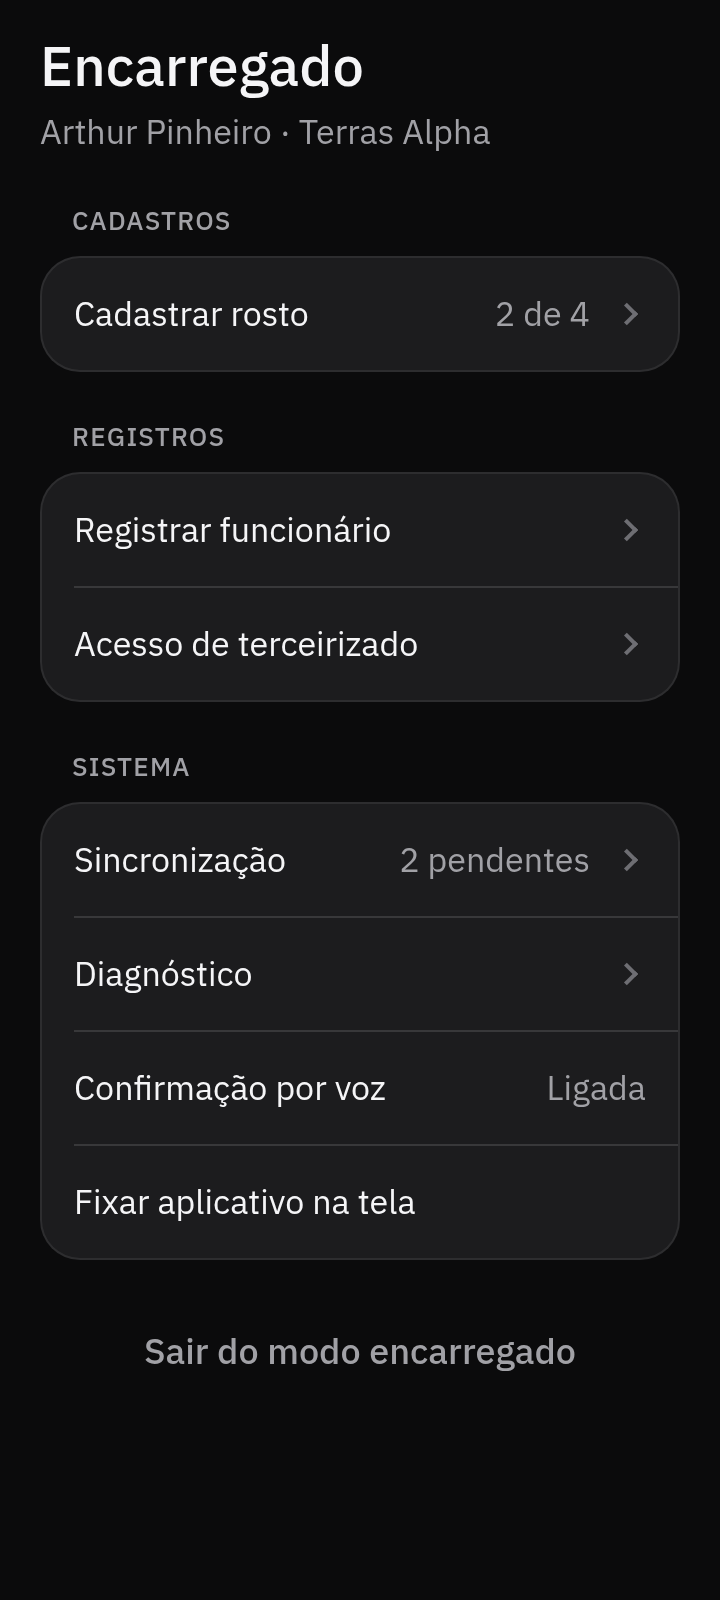
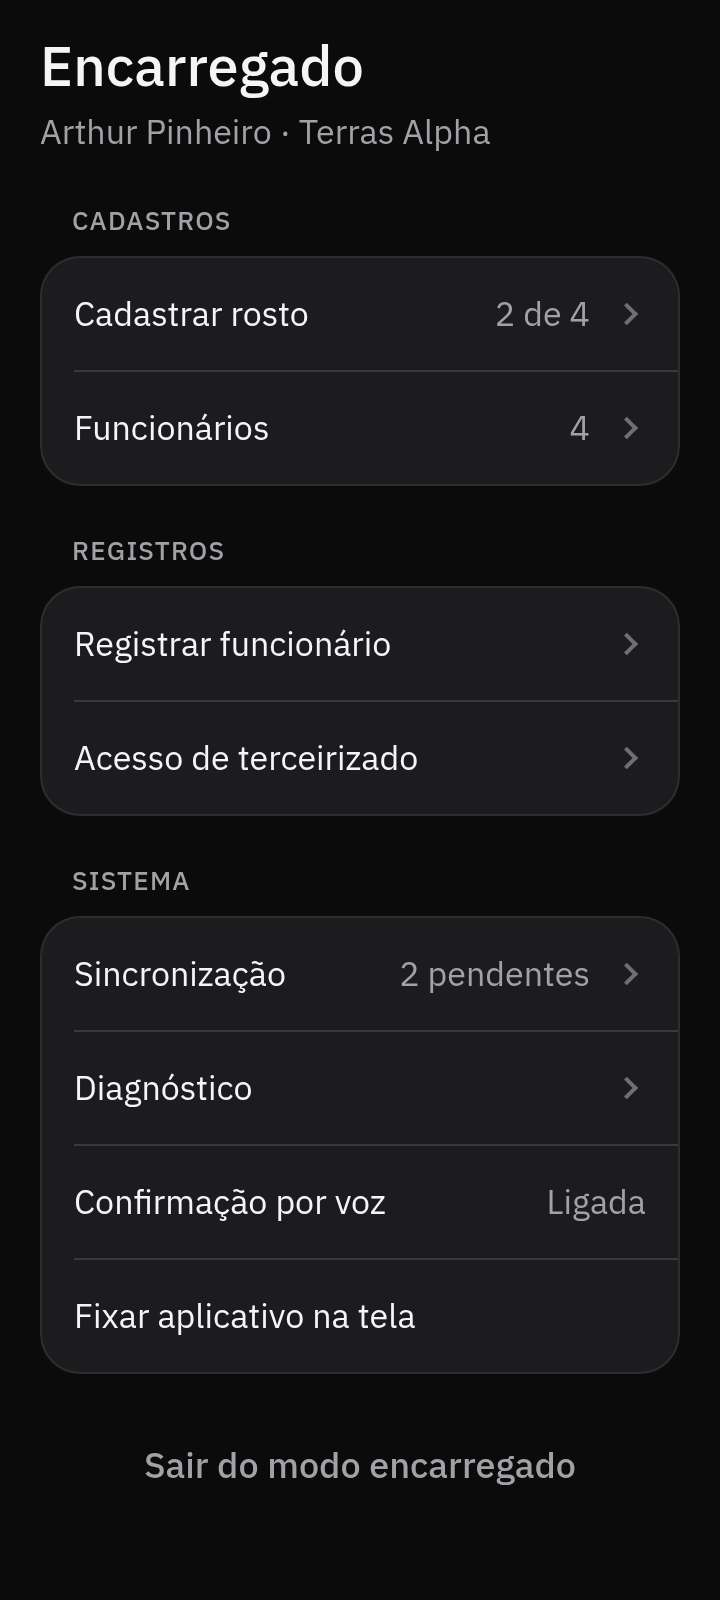
Ponto de Obra: revisão Impeccable da rodada 3 e telas atualizadas (30 cenas × 3 tamanhos)
Claude-Session: https://claude.ai/code/session_01TnKya7g1xESWgXpViWeEWq

diff --git a/apps/ponto-obra/IMPECCABLE-REVIEW.md b/apps/ponto-obra/IMPECCABLE-REVIEW.md
@@ -9,6 +9,67 @@
   fora do sistema); detector automatizado; e revisão visual de 29 estados em 3
   tamanhos de tela.
 
+## Rodada 3 - evolução profissional (04/10/2026)
+
+<!-- impeccable-resumo
+p0: 0
+p1: 0
+p1_justificados: 0
+-->
+
+- Base: `f3b4555` (main, com o funcionário global). Escopo: tela do
+  trabalhador, Encarregado, Funcionários, Diagnóstico e cópia das mensagens.
+- Verificação: detector (`design-system.test.js`) sem exceção nova; testes de
+  comportamento (`apresentacao.test.js`, `diagnostico-calibracao.test.js`);
+  revisão visual de **30 cenas × 3 tamanhos** (360×800, 412×915, tablet
+  800×1280) no harness `react-native-web`, com medição automática de estouro
+  horizontal, rolagem lateral e alvo < 44: **0 ocorrências**. As telas estão
+  em `docs/ui/`. **Não houve validação em aparelho físico** (sem aparelho no
+  ambiente): por isso o scorecard mantém o teto 9,0 de UI.
+
+### Antes × Depois (10 heurísticas)
+
+"Antes" é a main `f3b4555` com a auditoria do usuário (UI trabalhador 6,4;
+encarregado 6,2), que apontou a cópia "nesta obra" errada para funcionário
+global, a falta da lista de Funcionários e o Diagnóstico sem seções de
+suporte.
+
+| # | Heurística | Antes (estimado) | Depois | O que mudou |
+| --- | --- | --- | --- | --- |
+| 1 | Visibility of System Status | 3 | **4** | Comprovante offline diz "Salvo no aparelho · Será enviado automaticamente"; Diagnóstico em seções (Aplicativo, Aparelho, Sincronização, REP-P, Hora, Modelos, Desempenho) com "Alerta da hora" em texto + ícone. |
+| 2 | Match System / Real World | 2 | **4** | "Rosto não cadastrado nesta obra" virou "ainda não cadastrado" (o rosto vale em toda a empresa); hora no fuso do estabelecimento, não do aparelho; status do NTP traduzido ("medida contra o NTP.br, dentro da meta"). |
+| 3 | User Control and Freedom | 3 | **3** | Sem mudança. Continua faltando cancelar o reconhecimento em andamento (P3). |
+| 4 | Consistency and Standards | 4 | **4** | Funcionários e Diagnóstico usam o mesmo padrão de linhas agrupadas e "‹ Voltar". |
+| 5 | Error Prevention | 3 | **3** | Sem mudança de fluxo. |
+| 6 | Recognition Rather Than Recall | 3 | **4** | Lista de Funcionários com "Rosto cadastrado / Sem rosto" e o atalho "Cadastrar rosto"; menu mostra "2 de 4" e a contagem. |
+| 7 | Flexibility and Efficiency | 3 | **3** | Sem mudança. |
+| 8 | Aesthetic and Minimalist Design | 4 | **4** | Versão REP encurtada ("0.2.0-tecnica · não registrada", antes quebrava em 3 linhas); sem parênteses aninhados na fonte de hora. |
+| 9 | Error Recovery | 3 | **4** | Cada alerta de hora diz o que fazer ("Conecte à internet para sincronizar", "Avise o suporte do ARCD"); ambíguo e não cadastrado têm mensagens diferentes. |
+| 10 | Help and Documentation | 3 | **3** | Ajuda contextual melhorou, mas segue sem tela de ajuda (não necessária num quiosque). |
+| | **Total** | **31/40** | **36/40** | |
+
+O "Antes" desta tabela é mais baixo que o "Depois" da rodada 1 (36/40)
+porque a main recebeu o funcionário global depois dela e a cópia ficou
+errada; a auditoria do usuário mediu isso.
+
+### Achados da rodada 3
+
+- **P0**: nenhum.
+- **P1** (corrigidos): cópia "nesta obra" contradizia o funcionário global;
+  hora formatada no fuso do aparelho em vez do estabelecimento.
+- **P2** (corrigidos): item "Funcionários" ausente (era P3 na rodada 1);
+  Diagnóstico sem versão REP, perfil e data do build.
+- **P3** (corrigidos): versão REP redundante quebrando em 3 linhas; parênteses
+  aninhados na fonte de hora.
+- **P2** (pendente): validação no aparelho - ver `docs/device-matrix.md` e
+  `docs/checklist-aparelho.md`.
+- **P3** (pendentes): cancelar o reconhecimento em andamento; câmera alta no
+  tablet; `FLAG_SECURE` (ver `docs/seguranca.md`).
+
+---
+
+## Rodada 1 (01/10/2026)
+
 ## Como foi verificado
 
 1. **Detector automatizado** (`src/ui/design-system.test.js`). É o equivalente
